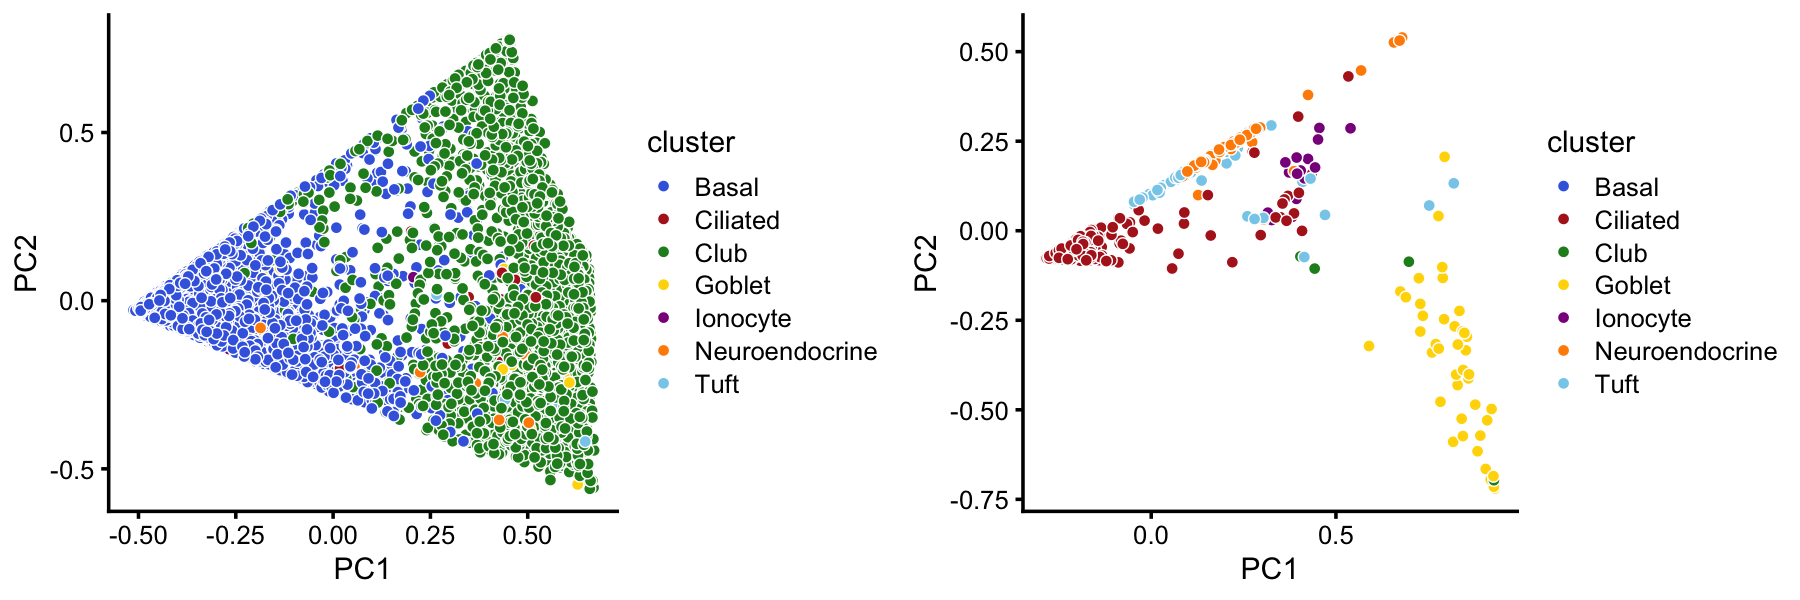
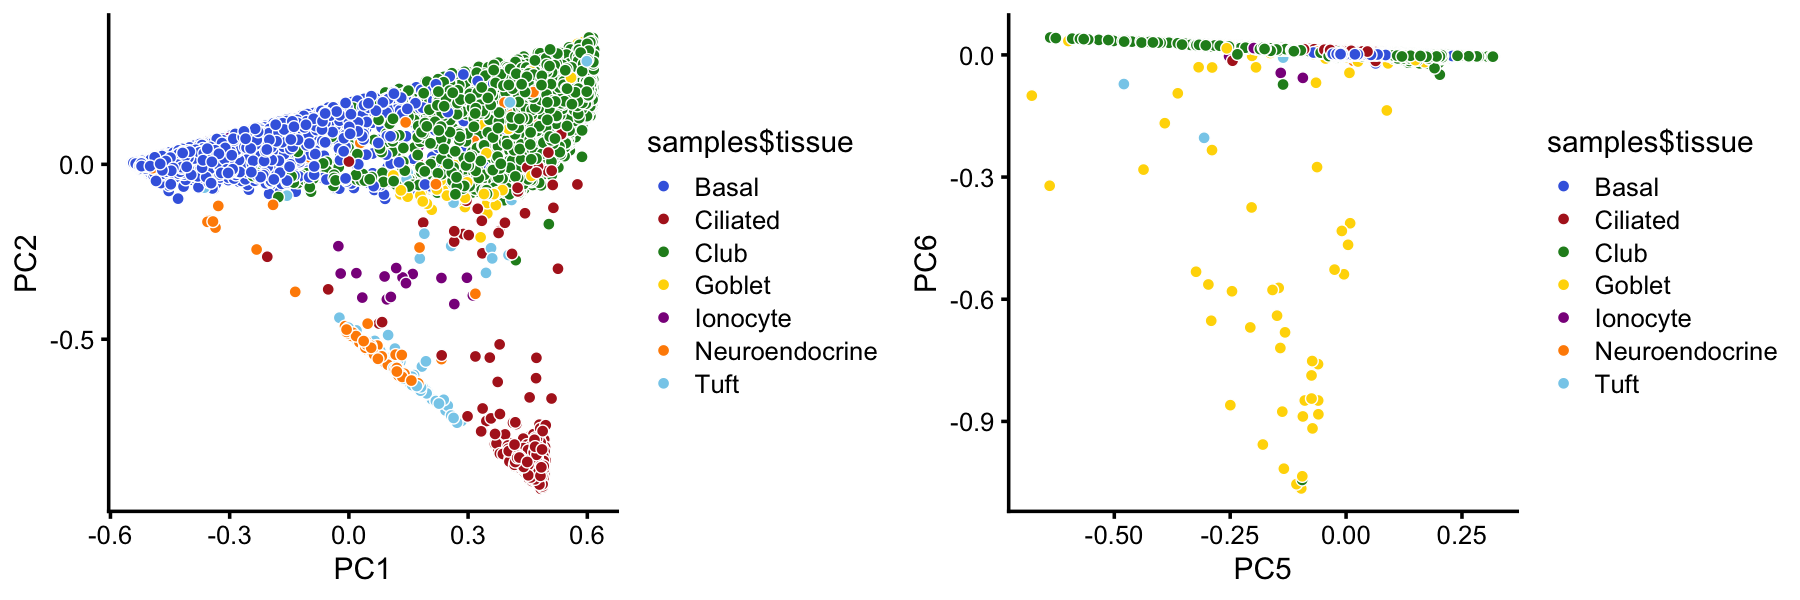
Revised PCA plots and structure plot in clusters_droplet analysis.

diff --git a/docs/clusters_droplet.html b/docs/clusters_droplet.html
@@ -292,7 +292,7 @@ $(document).ready(function () {
 <div class="tab-content">
 <div id="summary" class="tab-pane fade in active">
 <p>
-<strong>Last updated:</strong> 2022-01-28
+<strong>Last updated:</strong> 2022-02-07
 </p>
 <p>
 <strong>Checks:</strong> <span class="glyphicon glyphicon-ok text-success" aria-hidden="true"></span> 7 <span class="glyphicon glyphicon-exclamation-sign text-danger" aria-hidden="true"></span> 0
@@ -383,16 +383,16 @@ This reproducible <a href="https://rmarkdown.rstudio.com">R Markdown</a> analysi
 <div class="panel panel-default">
 <div class="panel-heading">
 <p class="panel-title">
-<a data-toggle="collapse" data-parent="#workflowr-checks" href="#strongRepositoryversionstrongahrefhttpsgithubcomstephenslabsinglecelltopicstreef38e9f770cfb25d9a61570cf5a22422f4a4563a5targetblankf38e9f7a"> <span class="glyphicon glyphicon-ok text-success" aria-hidden="true"></span> <strong>Repository version:</strong> <a href="https://github.com/stephenslab/single-cell-topics/tree/f38e9f770cfb25d9a61570cf5a22422f4a4563a5" target="_blank">f38e9f7</a> </a>
+<a data-toggle="collapse" data-parent="#workflowr-checks" href="#strongRepositoryversionstrongahrefhttpsgithubcomstephenslabsinglecelltopicstreee7b5bc5aa9773359f3d74d95c3158485aabcde0ctargetblanke7b5bc5a"> <span class="glyphicon glyphicon-ok text-success" aria-hidden="true"></span> <strong>Repository version:</strong> <a href="https://github.com/stephenslab/single-cell-topics/tree/e7b5bc5aa9773359f3d74d95c3158485aabcde0c" target="_blank">e7b5bc5</a> </a>
 </p>
 </div>
[2 lines of base64/hex data omitted]
 <div class="panel-body">
 <p>
 Great! You are using Git for version control. Tracking code development and connecting the code version to the results is critical for reproducibility.
 </p>
 <p>
-The results in this page were generated with repository version <a href="https://github.com/stephenslab/single-cell-topics/tree/f38e9f770cfb25d9a61570cf5a22422f4a4563a5" target="_blank">f38e9f7</a>. See the <em>Past versions</em> tab to see a history of the changes made to the R Markdown and HTML files.
+The results in this page were generated with repository version <a href="https://github.com/stephenslab/single-cell-topics/tree/e7b5bc5aa9773359f3d74d95c3158485aabcde0c" target="_blank">e7b5bc5</a>. See the <em>Past versions</em> tab to see a history of the changes made to the R Markdown and HTML files.
 </p>
 <p>
 Note that you need to be careful to ensure that all relevant files for the analysis have been committed to Git prior to generating the results (you can use <code>wflow_publish</code> or <code>wflow_git_commit</code>). workflowr only checks the R Markdown file, but you know if there are other scripts or data files that it depends on. Below is the status of the Git repository when the results were generated:
@@ -417,10 +417,11 @@ Untracked files:
     Untracked:  analysis/clustering-droplet.rds
     Untracked:  analysis/de_analysis_detailed_look_cache/
     Untracked:  analysis/de_analysis_detailed_look_more_cache/
+    Untracked:  analysis/structure-plot-pulseseq-merged.png
     Untracked:  plots/
 
 Unstaged changes:
-    Modified:   code/plots.R
+    Modified:   analysis/clusters_droplet_v2.R
 
 </code></pre>
 <p>
@@ -459,6 +460,91 @@ Message
 </tr>
 </thead>
 <tbody>
+<tr>
+<td>
+Rmd
+</td>
+<td>
+<a href="https://github.com/stephenslab/single-cell-topics/blob/e7b5bc5aa9773359f3d74d95c3158485aabcde0c/analysis/clusters_droplet.Rmd" target="_blank">e7b5bc5</a>
+</td>
+<td>
+Peter Carbonetto
+</td>
+<td>
+2022-02-07
+</td>
+<td>
+workflowr::wflow_publish(“clusters_droplet.Rmd”, verbose = TRUE)
+</td>
+</tr>
+<tr>
+<td>
+Rmd
+</td>
+<td>
+<a href="https://github.com/stephenslab/single-cell-topics/blob/3a8ae707bb73bea52e8914b4b057b919c38c83af/analysis/clusters_droplet.Rmd" target="_blank">3a8ae70</a>
+</td>
+<td>
+Peter Carbonetto
+</td>
+<td>
+2022-02-05
+</td>
+<td>
+Created exploratory script clusters_droplet_v2.R.
+</td>
+</tr>
+<tr>
+<td>
+Rmd
+</td>
+<td>
+<a href="https://github.com/stephenslab/single-cell-topics/blob/5ef162a96e5dd22bbd83130e542fa8eecf0edaac/analysis/clusters_droplet.Rmd" target="_blank">5ef162a</a>
+</td>
+<td>
+Peter Carbonetto
+</td>
+<td>
+2022-01-31
+</td>
+<td>
+Working on revisions to clusters_pulseseq analysis.
+</td>
+</tr>
+<tr>
+<td>
+Rmd
+</td>
+<td>
+<a href="https://github.com/stephenslab/single-cell-topics/blob/d71aaeeed287af7afa87d27419b1520f11f4de8c/analysis/clusters_droplet.Rmd" target="_blank">d71aaee</a>
+</td>
+<td>
+Peter Carbonetto
+</td>
+<td>
+2022-01-29
+</td>
+<td>
+Sketched the volcano plots in de_analysis_droplet.R.
+</td>
+</tr>
+<tr>
+<td>
+html
+</td>
+<td>
+<a href="https://rawcdn.githack.com/stephenslab/single-cell-topics/dcfeee5ac0c2c1c59b28c67340368a2f7afada15/docs/clusters_droplet.html" target="_blank">dcfeee5</a>
+</td>
+<td>
+Peter Carbonetto
+</td>
+<td>
+2022-01-28
+</td>
+<td>
+Revamped and simplified clusters_droplet analysis.
+</td>
+</tr>
 <tr>
 <td>
 Rmd
@@ -1421,7 +1507,6 @@ Implemented basic_pca_plot; improved labeled_pca_plot function.
 <p>Here we perform PCA on the topic proportions to identify clusters in the droplet data.</p>
 <p>Load the packages used in the analysis below, as well as additional functions that we will use to generate some of the plots.</p>
 <pre class="r"><code>library(Matrix)
-library(dplyr)
 library(fastTopics)
 library(ggplot2)
 library(cowplot)
@@ -1431,64 +1516,30 @@ source(&quot;../code/plots.R&quot;)</code></pre>
 <p>Load the <span class="math inline">\(K = 7\)</span> Poisson NMF model fit.</p>
 <pre class="r"><code>fit &lt;- readRDS(&quot;../output/droplet/rds/fit-droplet-scd-ex-k=7.rds&quot;)$fit
 fit &lt;- poisson2multinom(fit)</code></pre>
-<p>From the PCs of the topic proportions, we define 4 clusters, labeled A, Cil, G and T+N. (The reasoning behind these labels will become clear later.) Points that do not fit in any of these clusters are assigned to a “background cluster”, labeled U.</p>
+<p>From the PCs of the topic proportions, we define two subsets, labeled as “abundant” and “rare” to indicate that these subsets roughly capture the more abundant (e.g., basal) and more rare cell types (e.g., neuroendocrine).</p>
 <pre class="r"><code>pca &lt;- prcomp(fit$L)$x
-x   &lt;- rep(&quot;U&quot;,nrow(pca))
-pc1 &lt;- pca[,1]
+x   &lt;- rep(&quot;rare&quot;,nrow(pca))
 pc2 &lt;- pca[,2]
 pc6 &lt;- pca[,6]
-x[pc2 &gt; -0.15] &lt;- &quot;A&quot;
-x[pc1 &gt; 0.3 &amp; pc2 &lt; -0.75] &lt;- &quot;Cil&quot;
-x[pc1 &lt;= 0.3 &amp; pc2 &gt;= -0.75 &amp; pc2 &lt; -0.4] &lt;- &quot;T+N&quot;
-x[pc6 &lt; -0.05] &lt;- &quot;G&quot;</code></pre>
-<p>Within the “A” cluster, we label the three more-or-less distinct subclusters as B, C and H, and assign the remaining “in between” data points to cluster “B+C+H”.</p>
-<pre class="r"><code>rows &lt;- which(x == &quot;A&quot;)
-fit2 &lt;- select(fit,loadings = rows)
-pca  &lt;- prcomp(fit2$L)$x
-pc1  &lt;- pca[,1]
-pc2   &lt;- pca[,2]
-y    &lt;- rep(&quot;B+C+H&quot;,nrow(pca))
-y[pc1 &lt; 0.1] &lt;- &quot;B&quot;
-y[pc1 &gt; 0.4 &amp; pc2 &lt; 0.45] &lt;- &quot;C&quot;
-y[pc2 &gt; 0.55] &lt;- &quot;H&quot;
-x[rows] &lt;- y</code></pre>
-<p>In summary, we have subdivided the droplet data into 8 subsets:</p>
-<pre class="r"><code>samples$cluster &lt;- factor(x,c(&quot;B&quot;,&quot;C&quot;,&quot;H&quot;,&quot;B+C+H&quot;,&quot;Cil&quot;,&quot;T+N&quot;,&quot;G&quot;,&quot;U&quot;))
+x[pc2 &gt; -0.15] &lt;- &quot;abundant&quot;
+x[pc6 &lt; -0.05] &lt;- &quot;rare&quot;
+samples$cluster &lt;- factor(x)
 table(samples$cluster)
 # 
-#     B     C     H B+C+H   Cil   T+N     G     U 
-#  3841  1936   197   570   372   168    47    62</code></pre>
-<p>There is a close correspondence, with some exceptions, between these clusters based on the topic proportions and the Montoro <em>et al</em> (2018) clustering:</p>
-<pre class="r"><code>with(samples,table(tissue,cluster))
-#                 cluster
-# tissue              B    C    H B+C+H  Cil  T+N    G    U
-#   Basal          3682   16    5   142    0    0    0    0
-#   Ciliated          1   13    0     4  371    5    0   31
-#   Club             93 1878  192   411    0    0    2    2
-#   Goblet            2   20    0     1    0    0   42    0
-#   Ionocyte          9    0    0     1    0    1    1   14
-#   Neuroendocrine   27    4    0     6    0   51    0    8
-#   Tuft             27    5    0     5    1  111    2    7</code></pre>
-<p>This correspondence can also be seen from these PCA plots:</p>
-<pre class="r"><code>abundant      &lt;- c(&quot;B&quot;,&quot;C&quot;,&quot;H&quot;,&quot;B+C+H&quot;)
-rare          &lt;- c(&quot;Cil&quot;,&quot;T+N&quot;,&quot;G&quot;,&quot;U&quot;)
-tissue_colors &lt;- c(&quot;royalblue&quot;,   # basal
+# abundant     rare 
+#     6544      649</code></pre>
+<p>The reduced representation of the cells (from the topic proportions with <span class="math inline">\(K = 7\)</span> topics) mostly preserves the 7 clusters identified in the Montoro <em>et al</em> (2018) paper:</p>
+<pre class="r"><code>tissue_colors &lt;- c(&quot;royalblue&quot;,   # basal
                    &quot;firebrick&quot;,   # ciliated
-                    &quot;forestgreen&quot;, # club
-                    &quot;gold&quot;,        # goblet
-                    &quot;darkmagenta&quot;, # ionocyte
-                    &quot;darkorange&quot;,  # neuroendocrine
-                    &quot;skyblue&quot;)     # tuft
-rows1 &lt;- which(is.element(samples$cluster,abundant))
-rows2 &lt;- which(is.element(samples$cluster,rare))
-fit1  &lt;- select(fit,loadings = rows1)
-fit2  &lt;- select(fit,loadings = rows2)
-p1 &lt;- pca_plot(fit1,fill = samples[rows1,&quot;tissue&quot;]) +
-        scale_fill_manual(values = tissue_colors,drop = FALSE) +
-        labs(fill = &quot;cluster&quot;)
-p2 &lt;- pca_plot(fit2,fill = samples[rows2,&quot;tissue&quot;]) +
-        scale_fill_manual(values = tissue_colors,drop = FALSE) +
-        labs(fill = &quot;cluster&quot;)
+                   &quot;forestgreen&quot;, # club
+                   &quot;gold&quot;,        # goblet
+                   &quot;darkmagenta&quot;, # ionocyte
+                   &quot;darkorange&quot;,  # neuroendocrine
+                   &quot;skyblue&quot;)     # tuft
+p1 &lt;- pca_plot(fit,pcs = 1:2,fill = samples$tissue) +
+  scale_fill_manual(values = tissue_colors)
+p2 &lt;- pca_plot(fit,pcs = 5:6,fill = samples$tissue) +
+  scale_fill_manual(values = tissue_colors)
 plot_grid(p1,p2)</code></pre>
 <p><img src="figure/clusters_droplet.Rmd/clustering-5-1.png" width="900" style="display: block; margin: auto;" /></p>
 <p>
@@ -1513,6 +1564,17 @@ Date
 </tr>
 </thead>
 <tbody>
+<tr>
+<td>
+<a href="https://github.com/stephenslab/single-cell-topics/blob/dcfeee5ac0c2c1c59b28c67340368a2f7afada15/docs/figure/clusters_droplet.Rmd/clustering-5-1.png" target="_blank">dcfeee5</a>
+</td>
+<td>
+Peter Carbonetto
+</td>
+<td>
+2022-01-28
+</td>
+</tr>
 <tr>
 <td>
 <a href="https://github.com/stephenslab/single-cell-topics/blob/d707238a4eff6946e4e84130725678bfcb8ff27f/docs/figure/clusters_droplet.Rmd/clustering-5-1.png" target="_blank">d707238</a>
@@ -1561,24 +1623,18 @@ Peter Carbonetto
 </table>
 </div>
 </div>
-<p>The structure plot summarizes the topic proportions in each of these 8 subsets:</p>
+<p>The structure plot summarizes the topic proportions in the “abundant” and “rare” subsets:</p>
 <pre class="r"><code>set.seed(1)
 topic_colors &lt;- c(&quot;gold&quot;,&quot;royalblue&quot;,&quot;salmon&quot;,&quot;turquoise&quot;,&quot;olivedrab&quot;,
                   &quot;firebrick&quot;,&quot;forestgreen&quot;)
 topics &lt;- c(3,4,5,1,7,2,6)
-rows &lt;- sort(c(sample(which(samples$cluster == &quot;B&quot;),400),
-               sample(which(samples$cluster == &quot;C&quot;),400),
-               which(samples$cluster == &quot;H&quot;),
-               sample(which(samples$cluster == &quot;B+C+H&quot;),200),
-               sample(which(samples$cluster == &quot;Cil&quot;),200),
-               which(samples$cluster == &quot;T+N&quot;),
-               which(samples$cluster == &quot;G&quot;),
-               which(samples$cluster == &quot;U&quot;)))
-p &lt;- structure_plot(select(poisson2multinom(fit),loadings = rows),
+rows &lt;- sort(c(sample(which(samples$cluster == &quot;abundant&quot;),1200),
+               which(samples$cluster == &quot;rare&quot;)))
+p &lt;- structure_plot(select_loadings(fit,loadings = rows),
                     grouping = samples[rows,&quot;cluster&quot;],
                     topics = topics,colors = topic_colors,
-                    perplexity = 70,
-                    n = Inf,gap = 15,num_threads = 4,verbose = FALSE)
+                    perplexity = 70,n = Inf,gap = 20,
+                    num_threads = 4,verbose = FALSE)
 print(p)</code></pre>
 <p><img src="figure/clusters_droplet.Rmd/structure-plot-1.png" width="960" style="display: block; margin: auto;" /></p>
 <p>
@@ -1603,6 +1659,17 @@ Date
 </tr>
 </thead>
 <tbody>
+<tr>
+<td>
+<a href="https://github.com/stephenslab/single-cell-topics/blob/dcfeee5ac0c2c1c59b28c67340368a2f7afada15/docs/figure/clusters_droplet.Rmd/structure-plot-1.png" target="_blank">dcfeee5</a>
+</td>
+<td>
+Peter Carbonetto
+</td>
+<td>
+2022-01-28
+</td>
+</tr>
 <tr>
 <td>
 <a href="https://github.com/stephenslab/single-cell-topics/blob/db6135c17587e1bb862ac005452ee934662b0c7b/docs/figure/clusters_droplet.Rmd/structure-plot-1.png" target="_blank">db6135c</a>
@@ -1692,6 +1759,17 @@ Date
 <tbody>
 <tr>
 <td>
+<a href="https://github.com/stephenslab/single-cell-topics/blob/dcfeee5ac0c2c1c59b28c67340368a2f7afada15/docs/figure/clusters_droplet.Rmd/likelihood-2-1.png" target="_blank">dcfeee5</a>
+</td>
+<td>
+Peter Carbonetto
+</td>
+<td>
+2022-01-28
+</td>
+</tr>
+<tr>
+<td>
 <a href="https://github.com/stephenslab/single-cell-topics/blob/8e6c3843ab553f5c8acc7ef1b1007f7faa9ea86a/docs/figure/clusters_droplet.Rmd/likelihood-2-1.png" target="_blank">8e6c384</a>
 </td>
 <td>
@@ -1739,8 +1817,7 @@ Peter Carbonetto
 # [1] stats     graphics  grDevices utils     datasets  methods   base     
 # 
 # other attached packages:
-# [1] cowplot_1.0.0     ggplot2_3.3.5     fastTopics_0.6-98 dplyr_1.0.7      
-# [5] Matrix_1.2-18    
+# [1] cowplot_1.0.0     ggplot2_3.3.5     fastTopics_0.6-98 Matrix_1.2-18    
 # 
 # loaded via a namespace (and not attached):
 #  [1] httr_1.4.2         tidyr_1.1.3        jsonlite_1.7.2     viridisLite_0.3.0 
@@ -1758,12 +1835,12 @@ Peter Carbonetto
 # [49] tools_3.6.2        data.table_1.12.8  prettyunits_1.1.1  hms_1.1.0         
 # [53] lifecycle_1.0.0    stringr_1.4.0      MCMCpack_1.4-5     plotly_4.9.2      
 # [57] munsell_0.5.0      irlba_2.3.3        compiler_3.6.2     jquerylib_0.1.4   
-# [61] rlang_0.4.11       grid_3.6.2         htmlwidgets_1.5.1  labeling_0.3      
-# [65] rmarkdown_2.11     gtable_0.3.0       DBI_1.1.0          R6_2.4.1          
-# [69] knitr_1.37         uwot_0.1.10        utf8_1.1.4         workflowr_1.7.0   
-# [73] rprojroot_1.3-2    stringi_1.4.3      parallel_3.6.2     SQUAREM_2017.10-1 
-# [77] Rcpp_1.0.7         vctrs_0.3.8        tidyselect_1.1.1   xfun_0.29         
-# [81] coda_0.19-3</code></pre>
+# [61] systemfonts_1.0.2  rlang_0.4.11       grid_3.6.2         htmlwidgets_1.5.1 
+# [65] labeling_0.3       rmarkdown_2.11     gtable_0.3.0       DBI_1.1.0         
+# [69] R6_2.4.1           knitr_1.37         dplyr_1.0.7        uwot_0.1.10       
+# [73] utf8_1.1.4         workflowr_1.7.0    rprojroot_1.3-2    ragg_0.3.1        
+# [77] stringi_1.4.3      parallel_3.6.2     SQUAREM_2017.10-1  Rcpp_1.0.7        
+# [81] vctrs_0.3.8        tidyselect_1.1.1   xfun_0.29          coda_0.19-3</code></pre>
 </div>
 </div>
 
